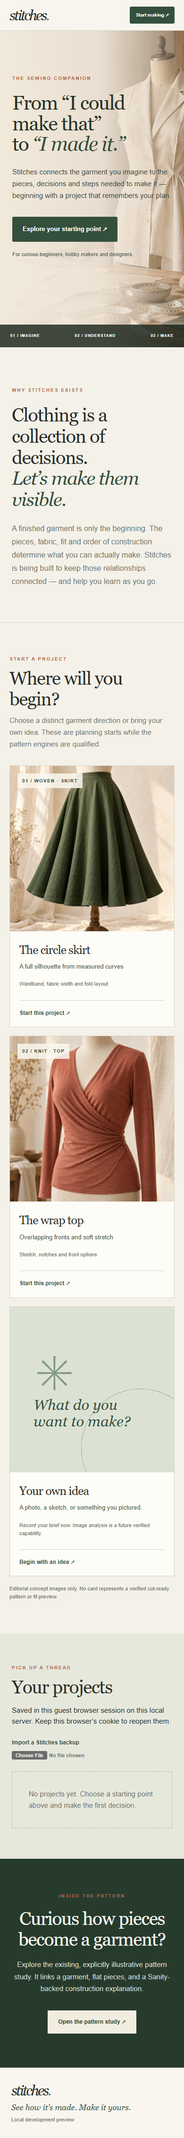
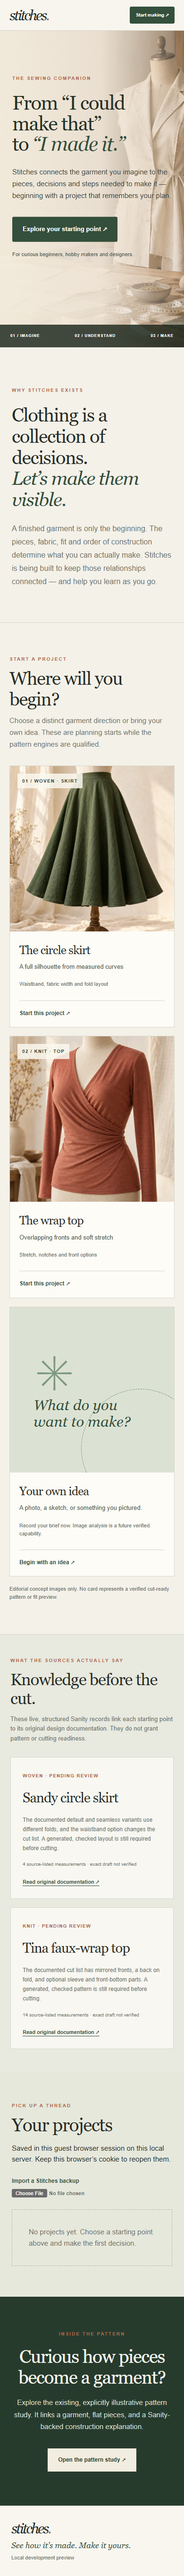
Add source-linked Sanity planning catalog

diff --git a/src/components/studio/CompanionHome.tsx b/src/components/studio/CompanionHome.tsx
@@ -3,6 +3,7 @@
 import Image from "next/image";
 import { useCallback, useEffect, useState, type ChangeEvent, type FormEvent } from "react";
 import { projectBackupSchema, type GuestProject, type ProjectNote, type ProjectPlan, type ProjectSource } from "@/domain/guest-project";
+import type { CompanionCatalogCard } from "@/server/knowledge/companion-catalog";
 
 const starts = [
   { id: "sandy", name: "The circle skirt", kind: "Woven · skirt", image: "/images/circle-skirt.png", caption: "A full silhouette from measured curves", question: "Waistband, fabric width and fold layout" },
@@ -35,6 +36,8 @@ async function json(response: Response) {
 
 export function CompanionHome() {
   const [projects, setProjects] = useState<GuestProject[]>([]);
+  const [catalog, setCatalog] = useState<CompanionCatalogCard[]>([]);
+  const [catalogState, setCatalogState] = useState<"loading" | "ready" | "unavailable">("loading");
   const [active, setActive] = useState<GuestProject | null>(null);
   const [revisions, setRevisions] = useState<GuestProject[]>([]);
   const [notes, setNotes] = useState<ProjectNote[]>([]);
@@ -73,6 +76,16 @@ export function CompanionHome() {
     })();
     return () => { mounted = false; };
   }, [open]);
+  useEffect(() => {
+    let mounted = true;
+    (async () => {
+      try {
+        const data = await json(await fetch("/api/catalog", { cache: "no-store" }));
+        if (mounted) { setCatalog(data.cards); setCatalogState("ready"); }
+      } catch { if (mounted) setCatalogState("unavailable"); }
+    })();
+    return () => { mounted = false; };
+  }, []);
 
   function begin(source: ProjectSource) {
     setNewSource(source);
@@ -148,11 +161,14 @@ export function CompanionHome() {
   }
 
   const unsavedChanges = !!(active && draft && JSON.stringify(draft) !== JSON.stringify(draftFor(active)));
+  const sourceDesignId = active?.source.kind === "candidate" ? active.source.designId : null;
+  const sourceCard = sourceDesignId ? catalog.find((item) => item.designKey === sourceDesignId) : undefined;
   return <div className="companion-app">
     <header className="companion-nav"><a href="/" className="companion-logo" aria-label="Stitches home">stitches<span>.</span></a><nav aria-label="Main navigation"><a href="/#how-it-works">How it works</a><a href="/#collection">Explore starts</a><a href="/demo">Pattern study ↗</a></nav><button type="button" onClick={() => active ? back() : document.getElementById("collection")?.scrollIntoView({ behavior: "smooth" })} className="nav-action">{active ? "All projects" : "Start making"} ↗</button></header>
     {active && draft ? <main className="companion-project">
       <div className="project-topline"><button type="button" onClick={back}>← All projects</button><span>Private guest project · revision {active.sequence}</span><button type="button" onClick={downloadBackup}>Download latest-state backup ↓</button></div>
       <div className="project-head"><div><p className="companion-kicker">YOUR MAKING COMPANION / 01</p><h1>{active.title}</h1><p>Carry your idea, materials and decisions in one place. Every save becomes a reviewable revision.</p></div><span className="capability-chip">Planning only · no cutting yet</span></div>
+      {active.source.kind === "candidate" && <section className="project-source-strip" aria-label="Current source research">{sourceCard ? <><p className="companion-kicker">LIVE SANITY CONTENT LAKE · PLANNING SOURCE</p><strong>{sourceCard.title}</strong><p>{sourceCard.cuttingCaveat}</p><span>{sourceCard.materialStructure} · {sourceCard.requiredMeasurements.length} source-listed measurements · {sourceCard.reviewStatus} review · plan only</span><a href={sourceCard.sourceUrl} target="_blank" rel="noreferrer">Read {sourceCard.sourceTitle} ↗</a></> : <p role="status">{catalogState === "loading" ? "Checking the current Sanity source record…" : "Current Sanity source details are unavailable. Your private plan is still saved, but do not use this card to cut."}</p>}</section>}
       <div className="project-workspace"><aside className="project-rail" aria-label="Project stages"><p className="rail-caption">THE JOURNEY</p><ol><li className="current"><b>01</b><span>Plan your idea<small>Available now</small></span></li><li><b>02</b><span>Understand the pattern<small>Qualification in progress</small></span></li><li><b>03</b><span>Cut with confidence<small>Not yet verified</small></span></li><li><b>04</b><span>Make & troubleshoot<small>Not yet verified</small></span></li></ol><a href="/demo">Explore the pattern study ↗</a></aside>
         <form className="project-form" onSubmit={save}><div className="form-intro"><p className="companion-kicker">THE WORKING BRIEF</p><h2>Make it yours, one decision at a time.</h2><p>Describe what you want to make. Stitches keeps constraints together while drafting and making tools are verified.</p></div>
           <div className="field-row"><label>Project name<input value={draft.title} maxLength={100} required onChange={(event) => update("title", event.target.value)} /></label><label>Fabric structure<select value={draft.structure} onChange={(event) => update("structure", event.target.value)}><option value="unknown">Not sure yet</option><option value="woven">Woven</option><option value="knit">Knit / stretch</option></select></label></div>
@@ -166,6 +182,7 @@ export function CompanionHome() {
     </main> : <main><section className="companion-hero"><Image src="/images/atelier-hero.png" fill priority sizes="100vw" alt="Sewing workroom with a garment on a dress form and paper pattern pieces on a table" /><div className="hero-shade" /><div className="hero-content"><p className="companion-kicker">THE SEWING COMPANION</p><h1>From “I could make that”<br />to <em>“I made it.”</em></h1><p>Stitches connects the garment you imagine to the pieces, decisions and steps needed to make it — beginning with a project that remembers your plan.</p><button type="button" onClick={() => document.getElementById("collection")?.scrollIntoView({ behavior: "smooth" })}>Explore your starting point ↗</button><small>For curious beginners, hobby makers and designers.</small></div><div className="hero-foot"><span>01 / IMAGINE</span><span>02 / UNDERSTAND</span><span>03 / MAKE</span><span>↓ EXPLORE</span></div></section>
       <section className="companion-intro" id="how-it-works"><p className="companion-kicker">WHY STITCHES EXISTS</p><div><h2>Clothing is a collection of decisions.<br /><em>Let’s make them visible.</em></h2><p>A finished garment is only the beginning. The pieces, fabric, fit and order of construction determine what you can actually make. Stitches is being built to keep those relationships connected — and help you learn as you go.</p></div></section>
       <section className="companion-collection" id="collection"><div className="collection-heading"><div><p className="companion-kicker">START A PROJECT</p><h2>Where will you begin?</h2><p>Choose a distinct garment direction or bring your own idea. These are planning starts while the pattern engines are qualified.</p></div><span>01—03 / PROJECT STARTS</span></div><div className="collection-grid">{starts.map((item, index) => <article className="collection-card" key={item.id}><div className="collection-image"><Image src={item.image} fill sizes="(max-width: 800px) 100vw, 33vw" alt={`Editorial concept of ${item.name}`} /><span>0{index + 1} / {item.kind}</span></div><div className="collection-copy"><h3>{item.name}</h3><p>{item.caption}</p><small>{item.question}</small><button type="button" onClick={() => begin({ kind: "candidate", designId: item.id })}>Start this project ↗</button></div></article>)}<article className="collection-card own"><div className="own-art"><span>✳</span><p>What do you<br />want to make?</p></div><div className="collection-copy"><h3>Your own idea</h3><p>A photo, a sketch, or something you pictured.</p><small>Record your brief now. Image analysis is a future verified capability.</small><button type="button" onClick={() => begin({ kind: "own_idea" })}>Begin with an idea ↗</button></div></article></div><p className="collection-caption">Editorial concept images only. No card represents a verified cut-ready pattern or fit preview.</p></section>
+      <section className="catalog-evidence" aria-label="Source-backed planning research"><div><p className="companion-kicker">WHAT THE SOURCES ACTUALLY SAY</p><h2>Knowledge before the cut.</h2><p>These live, structured Sanity records link each starting point to its original design documentation. They do not grant pattern or cutting readiness.</p></div>{catalogState === "ready" ? <div className="catalog-evidence-grid">{catalog.map((item) => <article key={item.designKey}><span>{item.materialStructure} · {item.reviewStatus} review</span><h3>{item.title}</h3><p>{item.cuttingCaveat}</p><small>{item.requiredMeasurements.length} source-listed measurements · exact draft not verified</small><a href={item.sourceUrl} target="_blank" rel="noreferrer">Read original documentation ↗</a></article>)}</div> : <p className="catalog-unavailable" role="status">{catalogState === "loading" ? "Loading current Sanity source records…" : "Live Sanity source records are unavailable. Editorial project starts remain planning-only; no source-backed cutting guidance is shown."}</p>}</section>
       <section className="companion-projects"><div><p className="companion-kicker">PICK UP A THREAD</p><h2>Your projects</h2><p>Saved in this guest browser session on this local server. Keep this browser’s cookie to reopen them.</p><label className="import-backup">Import a Stitches backup<input type="file" accept="application/json,.json" onChange={importBackup} disabled={busy} /></label></div>{loading ? <p>Loading projects…</p> : projects.length ? <div className="project-card-list">{projects.map((project) => <button type="button" key={project.id} onClick={() => open(project.id)}><span><strong>{project.title}</strong><small>{startFor(project.source)?.kind ?? "Your own idea"} · revision {project.sequence}</small></span><span>Open ↗</span></button>)}</div> : <p className="empty-projects">No projects yet. Choose a starting point above and make the first decision.</p>}{error && <p className="project-alert" role="alert">{error}</p>}</section>
       <section className="companion-demo-bridge"><p className="companion-kicker">INSIDE THE PATTERN</p><h2>Curious how pieces become a garment?</h2><p>Explore the existing, explicitly illustrative pattern study. It links a garment, flat pieces, and a Sanity-backed construction explanation.</p><a href="/demo">Open the pattern study ↗</a></section></main>}
     {newSource && <div className="new-project-backdrop" role="presentation" onMouseDown={(event) => { if (event.target === event.currentTarget) setNewSource(null); }}><div className="new-project-dialog" role="dialog" aria-modal="true" aria-labelledby="new-project-heading"><button className="dialog-close" type="button" onClick={() => setNewSource(null)} aria-label="Close">×</button><p className="companion-kicker">A NEW THREAD</p><h2 id="new-project-heading">Tell us what you want to make.</h2><p>Start with a brief. You can add fabric, measurements and open questions in your project.</p><form onSubmit={create}><label>Project name<input id="new-project-title" value={newTitle} maxLength={100} required placeholder="My summer skirt" onChange={(event) => setNewTitle(event.target.value)} /></label><label>What do you have in mind?<textarea value={newBrief} maxLength={1500} rows={4} placeholder="I want a skirt I can sew from the linen I already own…" onChange={(event) => setNewBrief(event.target.value)} /></label>{error && <p className="project-alert" role="alert">{error}</p>}<button type="submit" disabled={busy}>{busy ? "Creating…" : "Create my project"} ↗</button></form><small>No account required. This starts a planning project, not a printable pattern.</small></div></div>}

diff --git a/src/server/knowledge/companion-catalog.ts b/src/server/knowledge/companion-catalog.ts
@@ -1,0 +1,61 @@
+import { createHash } from "node:crypto";
+import { createClient, type SanityClient } from "@sanity/client";
+import { z } from "zod";
+
+const source = z.object({ _id: z.string(), _type: z.literal("sourceDocument"), _rev: z.string().min(1),
+  title: z.string().min(1), url: z.url(), locator: z.string().min(1), reviewStatus: z.enum(["pending", "reviewed"]) });
+const candidate = z.object({ _id: z.string(), _type: z.literal("planningCandidate"), _rev: z.string().min(1),
+  designKey: z.enum(["sandy", "tina"]), title: z.string().min(1), materialStructure: z.enum(["woven", "knit"]),
+  requiredMeasurements: z.array(z.string().min(1)).min(1).max(30), cuttingCaveat: z.string().min(20),
+  reviewStatus: z.enum(["pending", "reviewed"]), source: z.object({ _ref: z.string() }) });
+
+export const COMPANION_CATALOG_QUERY = '*[_id in $ids][0...5]';
+const IDS = ["companion-source-sandy-20261001", "companion-source-tina-20261001",
+  "companion-candidate-sandy-20261001", "companion-candidate-tina-20261001"] as const;
+export type CompanionCatalogCard = { designKey: "sandy" | "tina"; title: string; materialStructure: "woven" | "knit";
+  requiredMeasurements: string[]; cuttingCaveat: string; sourceTitle: string; sourceUrl: string;
+  sourceLocator: string; reviewStatus: "pending" | "reviewed"; fingerprint: string; capability: "plan_only" };
+
+export class CatalogError extends Error {
+  constructor(public readonly code: "missing" | "invalid" | "unavailable", message: string) { super(message); }
+}
+
+export function resolveCompanionCatalog(raw: unknown): CompanionCatalogCard[] {
+  if (!Array.isArray(raw) || raw.length !== IDS.length) throw new CatalogError("missing", "Planning source records are incomplete.");
+  const docs = new Map<string, Record<string, unknown>>();
+  for (const item of raw) {
+    if (!item || typeof item !== "object" || typeof item._id !== "string" || !IDS.includes(item._id as typeof IDS[number]) || docs.has(item._id))
+      throw new CatalogError("invalid", "Unexpected or repeated planning source record.");
+    docs.set(item._id, item);
+  }
+  return (["sandy", "tina"] as const).map((designKey) => {
+    const rawSource = docs.get(`companion-source-${designKey}-20261001`);
+    const rawCandidate = docs.get(`companion-candidate-${designKey}-20261001`);
+    const checkedSource = source.safeParse(rawSource);
+    const checkedCandidate = candidate.safeParse(rawCandidate);
+    if (!checkedSource.success || !checkedCandidate.success) throw new CatalogError("invalid", `${designKey} planning source is malformed or unreviewed/rejected.`);
+    const sourceDoc = checkedSource.data;
+    const candidateDoc = checkedCandidate.data;
+    if (candidateDoc.designKey !== designKey || candidateDoc.source._ref !== sourceDoc._id || !sourceDoc.url.startsWith("https://"))
+      throw new CatalogError("invalid", `${designKey} planning source binding is inconsistent.`);
+    const fingerprint = createHash("sha256").update(JSON.stringify({ sourceDoc, candidateDoc })).digest("hex");
+    return { designKey, title: candidateDoc.title, materialStructure: candidateDoc.materialStructure,
+      requiredMeasurements: candidateDoc.requiredMeasurements, cuttingCaveat: candidateDoc.cuttingCaveat,
+      sourceTitle: sourceDoc.title, sourceUrl: sourceDoc.url, sourceLocator: sourceDoc.locator,
+      reviewStatus: candidateDoc.reviewStatus === "reviewed" && sourceDoc.reviewStatus === "reviewed" ? "reviewed" as const : "pending" as const,
+      fingerprint, capability: "plan_only" as const };
+  });
+}
+
+type QueryClient = Pick<SanityClient, "fetch">;
+export async function loadCompanionCatalog(client: QueryClient): Promise<CompanionCatalogCard[]> {
+  const raw = await client.fetch<unknown>(COMPANION_CATALOG_QUERY, { ids: [...IDS] });
+  return resolveCompanionCatalog(raw);
+}
+
+export function createCompanionCatalogClient(env: Record<string, string | undefined> = process.env): QueryClient {
+  if (env.SANITY_PROJECT_ID !== "l4eeamth" || env.SANITY_DATASET !== "development" || !env.SANITY_READ_TOKEN)
+    throw new CatalogError("unavailable", "Dedicated Stitches development read configuration is missing.");
+  return createClient({ projectId: "l4eeamth", dataset: "development", apiVersion: env.SANITY_API_VERSION || "2026-09-28",
+    useCdn: false, perspective: "published", token: env.SANITY_READ_TOKEN });
+}

diff --git a/src/app/companion.css b/src/app/companion.css
@@ -32,3 +32,6 @@
 @media(prefers-reduced-motion:reduce){.companion-app *, .companion-app *::before, .companion-app *::after{scroll-behavior:auto!important;animation-duration:.01ms!important;transition-duration:.01ms!important}}
 .maker-journal{display:grid;gap:15px;margin-top:24px;min-width:0}.maker-journal h3{font-family:Georgia,'Times New Roman',serif;font-size:clamp(28px,2.5vw,38px);font-weight:500;margin:0;color:var(--pine)}.maker-journal>p{font-size:12px;line-height:1.6;color:var(--muted);margin:0}.journal-add{justify-self:start;border:1px solid var(--pine);background:transparent;color:var(--pine);padding:12px 17px;font-size:12px;font-weight:700;cursor:pointer}.journal-add:hover{background:var(--pine);color:white}.journal-add:disabled{opacity:.5;cursor:not-allowed}.journal-disclosure{font-size:10px;color:var(--muted)}.journal-list{list-style:none;margin:8px 0 0;padding:0;display:grid;gap:10px}.journal-list li{background:#f1f0e7;border-left:3px solid #a5b397;padding:14px 17px;min-width:0}.journal-list li>div{display:flex;justify-content:space-between;gap:10px;flex-wrap:wrap}.journal-list strong{font-size:11px;color:var(--pine);text-transform:capitalize}.journal-list small,.journal-list time{font-size:10px;color:var(--muted)}.journal-list p{font-size:12px;line-height:1.6;white-space:pre-wrap;overflow-wrap:anywhere;margin:9px 0}.journal-empty{font-style:italic}
 .journal-warning{color:#8b4d25;font-size:11px}
+.catalog-evidence{max-width:1640px;margin:auto;padding:76px clamp(22px,4vw,66px);background:#e8e9df;border-top:1px solid var(--hair);display:grid;grid-template-columns:minmax(220px,.8fr) minmax(0,2fr);gap:clamp(28px,6vw,95px)}.catalog-evidence h2{font-size:clamp(35px,4vw,58px);margin:14px 0}.catalog-evidence>div:first-child>p:last-child{color:var(--muted);line-height:1.6;font-size:13px;max-width:390px}.catalog-evidence-grid{display:grid;grid-template-columns:repeat(2,minmax(0,1fr));gap:18px}.catalog-evidence-grid article{padding:25px;background:#f8f7f1;border:1px solid #d7d8cd;min-width:0}.catalog-evidence-grid article>span{color:var(--rust);text-transform:uppercase;letter-spacing:.12em;font-size:10px;font-weight:700}.catalog-evidence-grid h3{font-size:29px;margin:15px 0}.catalog-evidence-grid p{font-size:12px;line-height:1.65;color:var(--muted)}.catalog-evidence-grid small{display:block;font-size:10px;color:var(--muted);margin:16px 0}.catalog-evidence-grid a{font-size:11px;font-weight:700;color:var(--pine);text-decoration:underline;text-underline-offset:4px}.catalog-unavailable{align-self:center;padding:24px;border-left:3px solid var(--rust);background:#f8f7f1;font-size:13px;line-height:1.6}.project-source-strip{padding:22px clamp(22px,4vw,66px);background:#e8e9df;border-top:1px solid var(--hair);display:grid;grid-template-columns:minmax(150px,1fr) minmax(210px,2fr) minmax(220px,3fr) auto;gap:15px 25px;align-items:center}.project-source-strip .companion-kicker{grid-column:1/-1;margin:0}.project-source-strip strong{font-family:Georgia,'Times New Roman',serif;font-size:22px;font-weight:400}.project-source-strip p:not(.companion-kicker){color:var(--muted);font-size:11px;line-height:1.55;margin:0}.project-source-strip span{color:var(--pine);font-size:10px;font-weight:700;line-height:1.5}.project-source-strip a{color:var(--pine);font-size:11px;font-weight:700;text-decoration:underline;text-underline-offset:4px}.project-source-strip>p[role=status]{grid-column:1/-1}
+@media(max-width:900px){.catalog-evidence{grid-template-columns:1fr}.project-source-strip{grid-template-columns:repeat(2,minmax(0,1fr))}.project-source-strip p:not(.companion-kicker){grid-column:1/-1}}
+@media(max-width:600px){.catalog-evidence{padding:48px 22px}.catalog-evidence-grid{grid-template-columns:1fr}.project-source-strip{grid-template-columns:1fr}.project-source-strip p:not(.companion-kicker){grid-column:auto}}

diff --git a/src/server/knowledge/companion-catalog.test.ts b/src/server/knowledge/companion-catalog.test.ts
@@ -1,0 +1,46 @@
+import { readFileSync } from "node:fs";
+import { describe, expect, it } from "vitest";
+import { COMPANION_CATALOG_QUERY, createCompanionCatalogClient, loadCompanionCatalog, resolveCompanionCatalog } from "./companion-catalog";
+
+const fixture = JSON.parse(readFileSync(new URL("../../../fixtures/companion-candidates.json", import.meta.url), "utf8"));
+const published = fixture.documents.map((item: Record<string, unknown>, index: number) => ({ ...item, _rev: `published-${index}` }));
+
+describe("Sanity-backed planning catalog", () => {
+  it("requires both distinct source/candidate pairs and keeps every card plan-only", () => {
+    const cards = resolveCompanionCatalog([...published].reverse());
+    expect(cards.map((item) => item.designKey)).toEqual(["sandy", "tina"]);
+    expect(cards.map((item) => item.materialStructure)).toEqual(["woven", "knit"]);
+    expect(cards.every((item) => item.capability === "plan_only" && item.reviewStatus === "pending")).toBe(true);
+    expect(cards[0].requiredMeasurements).toHaveLength(4);
+    expect(cards[1].requiredMeasurements).toHaveLength(14);
+    const corrected = published.map((item: Record<string, unknown>) => item._type === "planningCandidate" && item.designKey === "sandy"
+      ? { ...item, cuttingCaveat: `${item.cuttingCaveat} Check a sample first.`, _rev: "new-editorial-revision" } : item);
+    expect(resolveCompanionCatalog(corrected)[0].fingerprint).not.toBe(cards[0].fingerprint);
+    expect(resolveCompanionCatalog(corrected)[1].fingerprint).toBe(cards[1].fingerprint);
+  });
+
+  it("fails closed on missing, duplicated, dangling or rejected Sanity content", () => {
+    expect(() => resolveCompanionCatalog(published.slice(1))).toThrow(/incomplete/);
+    expect(() => resolveCompanionCatalog([...published.slice(0, 3), published[0]])).toThrow(/repeated/);
+    const dangling = published.map((item: Record<string, unknown>) => item.designKey === "tina" ? { ...item, source: { _ref: "wrong" } } : item);
+    expect(() => resolveCompanionCatalog(dangling)).toThrow(/binding/);
+    const rejected = published.map((item: Record<string, unknown>) => item._type === "sourceDocument" && item._id === "companion-source-tina-20261001"
+      ? { ...item, reviewStatus: "rejected" } : item);
+    expect(() => resolveCompanionCatalog(rejected)).toThrow(/malformed/);
+  });
+
+  it("uses only a fixed parameterized query and refuses a wrong project/dataset", async () => {
+    let actualQuery = "";
+    const cards = await loadCompanionCatalog({ fetch: async (query: string, params: Record<string, unknown>) => {
+      actualQuery = query;
+      expect(params.ids).toHaveLength(4);
+      return published;
+    } } as never);
+    expect(actualQuery).toBe(COMPANION_CATALOG_QUERY);
+    expect(cards).toHaveLength(2);
+    expect(() => createCompanionCatalogClient({ SANITY_PROJECT_ID: "crossgrade", SANITY_DATASET: "development", SANITY_READ_TOKEN: "x" }))
+      .toThrow(/Dedicated Stitches/);
+    expect(() => createCompanionCatalogClient({ SANITY_PROJECT_ID: "l4eeamth", SANITY_DATASET: "production", SANITY_READ_TOKEN: "x" }))
+      .toThrow(/Dedicated Stitches/);
+  });
+});

diff --git a/sanity/schemaTypes/index.ts b/sanity/schemaTypes/index.ts
@@ -132,6 +132,21 @@ const fabricRequirement = defineType({
   ],
 });
 
+// Research-only catalog material. A planning candidate is deliberately separate
+// from a qualified patternVersion and cannot grant drafting/cutting capability.
+const planningCandidate = defineType({
+  name: "planningCandidate", title: "Planning candidate", type: "document",
+  fields: [
+    defineField({ name: "designKey", type: "string", options: { list: ["sandy", "tina"] }, validation: required }),
+    defineField({ name: "title", type: "string", validation: required }),
+    defineField({ name: "materialStructure", type: "string", options: { list: ["woven", "knit"] }, validation: required }),
+    defineField({ name: "requiredMeasurements", type: "array", of: [defineArrayMember({ type: "string" })] }),
+    defineField({ name: "cuttingCaveat", type: "text", validation: required }),
+    defineField({ name: "source", type: "reference", to: [{ type: "sourceDocument" }], validation: required }),
+    reviewField(),
+  ],
+});
+
 // These are shared, source-reviewed teaching records. Personal project observations
 // and uploaded photographs belong in guest storage, never in Content Lake.
 const garmentComponent = defineType({
@@ -237,7 +252,7 @@ const remedy = defineType({
 
 export const schemaTypes = [
   sourceDocument, pattern, patternVersion, patternPiece, seamConnection,
-  adjustmentRule, instructionStep, fabricRequirement, garmentComponent,
+  adjustmentRule, instructionStep, fabricRequirement, planningCandidate, garmentComponent,
   sewingTechnique, equipmentClass, fabricClass, constructionProcedure,
   issuePattern, diagnosticTest, remedy,
 ];

diff --git a/src/app/api/catalog/route.ts b/src/app/api/catalog/route.ts
@@ -1,0 +1,16 @@
+import { NextResponse } from "next/server";
+import { CatalogError, createCompanionCatalogClient, loadCompanionCatalog } from "@/server/knowledge/companion-catalog";
+
+export const runtime = "nodejs";
+export const dynamic = "force-dynamic";
+
+export async function GET() {
+  try {
+    const cards = await loadCompanionCatalog(createCompanionCatalogClient());
+    return NextResponse.json({ provenance: "sanity-development-content-lake", cards }, { headers: { "Cache-Control": "no-store" } });
+  } catch (error) {
+    const code = error instanceof CatalogError ? error.code : "unavailable";
+    return NextResponse.json({ code, message: "The source-linked planning catalog is unavailable. Your private projects remain accessible." },
+      { status: 503, headers: { "Cache-Control": "no-store" } });
+  }
+}

diff --git a/docs/STATUS.md b/docs/STATUS.md
@@ -2,6 +2,16 @@
 
 Updated: October 1, 2026.
 
+## Active W03 source-linked planning catalog — October 1, 2026
+
+- Rechecked the official Sandy and Tina design pages, including required measurements and cutting/fabric differences. A bounded `npm view @freesewing/sandy` retry again produced no registry response and was cancelled after roughly 50 seconds; this does **not** qualify a drafting engine or output rights.
+- Added a distinct `planningCandidate` Sanity schema type so research candidates cannot be confused with a qualified `patternVersion`. A guarded seeder dry-ran four exact IDs, found zero collisions, then created two source records and two candidate records in **Stitches `l4eeamth/development` only**. Published Content Lake read-back verified all four with `reviewStatus: pending`. `evidence/companion-candidates-sanity.json` contains IDs/revisions, no credentials. Existing 13 illustrative records were not overwritten; no production dataset write or KB rebuild occurred.
+- Added a fixed, parameterized Content Lake catalog reader and `/api/catalog`. It validates both source/candidate pairs, rejects missing, duplicated, dangling or rejected documents, and returns plan-only metadata/fingerprints. The main companion now shows current source-linked planning caveats and an explicit unavailable state, while private project entry remains possible. It does not treat editorial photos as pattern evidence or pretend this exact read is a Context KB response.
+- The source catalog is read fresh and is **not yet pinned to a guest project's saved knowledge fingerprint**. Changes to these source records therefore must not be interpreted as automatically rebasing earlier journal evidence or approving new advice.
+- Focused catalog tests passed 3/3; full deterministic suite passed **57/57** with one opt-in live test skipped; `tsc --noEmit` exited 0 after a source-union narrowing fix. Final Webpack production build exited 0 with `/api/catalog`. The built API returned 200 and exactly two pending, plan-only cards from the development Content Lake; guest API outcomes still passed. The isolated Chrome run passed 1440/1024/768/390/320px, live source display, guest create/save/journal/reload/backup/import, no overflow/broken images/runtime errors. Refreshed desktop gallery and phone home/project screenshots were visually inspected. Reports: `evidence/guest-api-verification.json` and `evidence/companion-runtime-verification.json`.
+
+**Next executable task:** pin the Sanity candidate fingerprint to the saved guest project and invalidate source-dependent advice on change; then implement a sourced, reviewed shared method/diagnostic graph and separately verify Context KB maintenance. Plan-only records do not satisfy W03 exit.
+
 ## Active W02 journal and portable backup slice — October 1, 2026
 
 - Added private maker observations/questions with stage labels, immutable saved-revision basis, stale-write rejection, idempotent replay and cross-guest denial. The project UI distinguishes current from earlier notes and requires unsaved plan edits to be saved before a new note can be attached. These are user-authored records, **not** a verified diagnostic assistant or sewing advice.

diff --git a/BUILD_LOG.md b/BUILD_LOG.md
@@ -1,5 +1,11 @@
 # Build log
 
+## October 1, 2026 — W03 pending-review Sanity planning-source slice
+
+- Source: official FreeSewing Sandy and Tina documentation rechecked; only paraphrased source-linked planning facts were authored. The `npm view` retry was stopped after about 50 seconds without a response. No engine/version/rights or physical gate was upgraded.
+- Added `planningCandidate` schema; guard-checked four exact document IDs. Seeder dry-run against `l4eeamth/development` found zero existing collisions; `--apply` created two `sourceDocument` and two `planningCandidate` records in that dataset, all pending review. Published read-back verified four records and saved ID/revision evidence in `evidence/companion-candidates-sanity.json`. The 13 prior illustrative records and production dataset were untouched. No Context KB build/refresh or Gemini call.
+- Added fixed-query catalog resolver, failure state and main-app source evidence panel. Focused Vitest 3/3 and full Vitest 57/57 passed, one opt-in live test skipped. `tsc --noEmit` passed after fixing TypeScript narrowing in the client. Final Webpack production build exited 0. Built `/api/catalog` returned 200 with two pending, plan-only Content Lake cards; guest API rehearsal passed. Isolated Chrome passed five widths and displayed the live Sandy source on the project, while preserving the guest journey and backup import, with zero overflow/broken images/runtime exceptions. Refreshed desktop gallery and phone screenshots were inspected. Evidence JSON and captures are under `evidence/`.
+
 ## October 1, 2026 — W02 private journal and backup/import slice
 
 - Scope: add user-authored observation/question records bound to an immutable saved project basis; make their data portable without claiming sewing diagnosis. Files: domain schemas, guest SQLite store, `/api/projects/[id]/notes`, `/api/projects/import`, project workspace, API/browser checks. Rollback: revert this coherent slice; the prior committed project-first baseline is `93fe96c`.

diff --git a/docs/DECISIONS.md b/docs/DECISIONS.md
@@ -1,5 +1,11 @@
 # Implementation decisions
 
+## October 1, 2026 — Separate Sanity planning candidates from qualified patterns
+
+- `planningCandidate` is a dedicated shared editorial type with `reviewStatus: pending`, official-source reference, measurement names and a conditional cutting caveat. It grants only `plan_only` and cannot stand in for `patternVersion`, generated geometry, print or maker review.
+- The main companion reads these four known records through a fixed server-side Content Lake query, never a model-supplied GROQ string. Missing/rejected/inconsistent records produce an explicit unavailable state. Private guest plans and journal remain local and do not enter Sanity.
+- The development write used `createIfNotExists` after a zero-collision dry run and read-back; no existing record was replaced. Sanity Context KB remains separately maintained and was not rebuilt by this Content Lake operation.
+
 ## October 1, 2026 — Maker journal and portable guest backup (active)
 
 - A private note is a maker-authored observation or question, not generated advice. It records the saved project sequence and basis hash; unsaved plan edits must be kept before a note can be added. Earlier-basis notes remain visible but cannot silently become current evidence.

diff --git a/devpost/checklist.md b/devpost/checklist.md
@@ -37,6 +37,7 @@ Exit: two distinct source-qualified candidates and one fully mapped vertical jou
 Exit: two sessions cannot cross-read; actual project resumes after restart; stale/duplicate transitions deterministic.
 
 ## W03 — Sanity intelligence graph
+- Verified partial: four source-linked, pending-review planning records in `l4eeamth/development` are read by the companion through an exact Content Lake catalog API. This is not a reviewed procedure/diagnostic graph or a served Context KB update.
 - [ ] Extend existing schema with components, technique, equipment/fabric classes, procedures, issue patterns, diagnostic tests and remedies; preserve current pattern/step refs.
 - [ ] Seed only qualified shared facts into project l4eeamth/development after dry-run exact IDs, backups, revision guards and complete graph validation.
 - [ ] Maintain separate fixed exact Content Lake reads and actual KB-only Context; no private maker data in Sanity.
